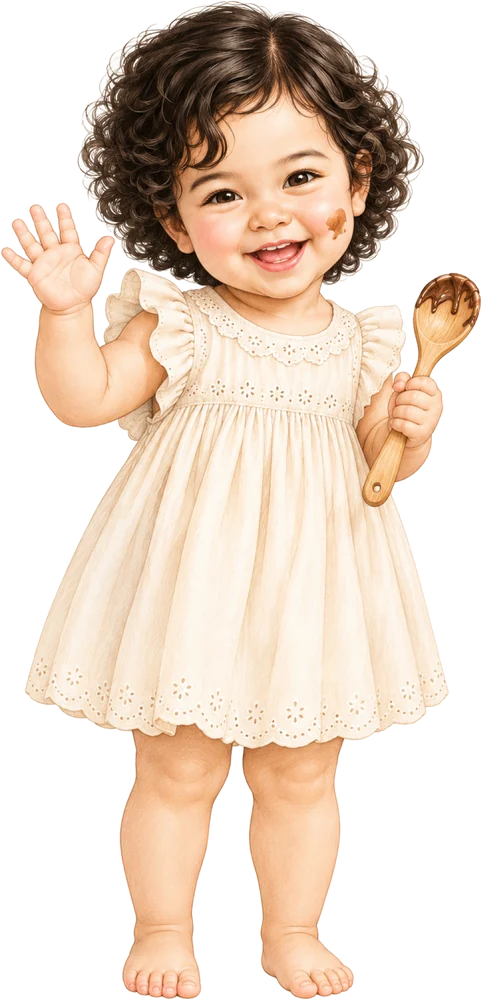
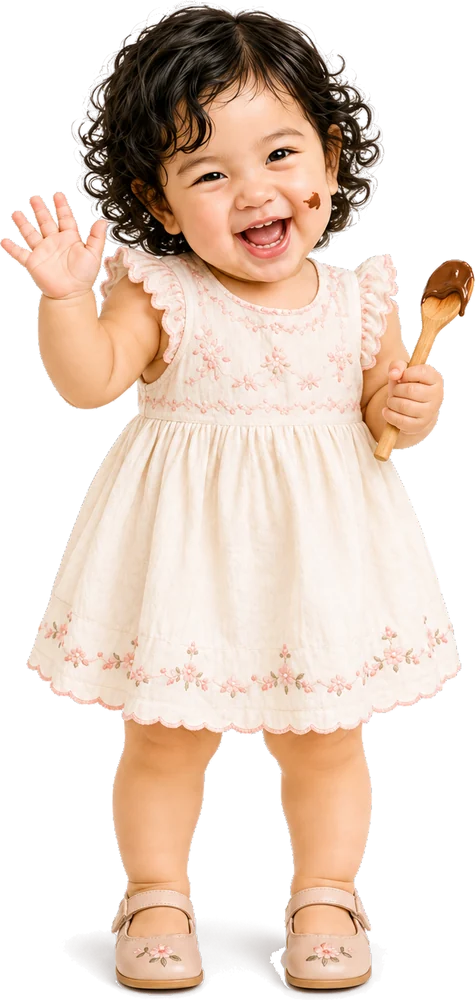
Use batch 3: photographic LG across both brands
- Six existing LG poses swapped for the batch 3 photos, cut out of their
  white backgrounds (GrabCut seeded from the white studio floor, with a
  soft contact shadow kept) and saved as WebP at 1000 px tall
- New round photo portraits for the brand-switch pill, the hero badge and
  the Tsismis teaser (blanket wink for LIMT, shh for Tsismis)
- Tsismis home: new 'see no / hear no / speak no tsismis' row above the
  gossip tags, copy in brandContent
- Blanket-wink full pose registered as 'cozy' for a future placement

Claude-Session: https://claude.ai/code/session_0141c2TkLaXLY1cYFBHnAE5R

diff --git a/src/brand/lgPoses.js b/src/brand/lgPoses.js
@@ -6,33 +6,42 @@
   pose. A moment a brand doesn't list falls back to that brand's circular
   portrait, unless the caller asks for no fallback.
 
-  Images are cut out from the originals in design/images/ (see README).
+  LG is photographic (from 25 Nov 2026). Images are cut out of the white
+  backgrounds of the originals in design/images/ (batch 3) and saved as WebP.
 */
-import lgLimt from '../assets/lg-limt.png'
-import lgTsismis from '../assets/lg-tsismis.png'
+import lgLimtPortrait from '../assets/lg/limt/lg-limt-portrait.webp'
+import lgTsismisPortrait from '../assets/lg/tsismis/lg-tsismis-portrait.webp'
 import limtWave from '../assets/lg/limt/lg-limt-wave.webp'
 import limtBrownieOffer from '../assets/lg/limt/lg-limt-brownie-offer.webp'
 import limtFlourLaugh from '../assets/lg/limt/lg-limt-flour-laugh.webp'
+import limtBlanketWink from '../assets/lg/limt/lg-limt-blanket-wink.webp'
 import tsismisWhisper from '../assets/lg/tsismis/lg-tsismis-whisper.webp'
 import tsismisDoorPeek from '../assets/lg/tsismis/lg-tsismis-door-peek.webp'
 import tsismisWhoMe from '../assets/lg/tsismis/lg-tsismis-who-me.webp'
+import tsismisSeeNo from '../assets/lg/tsismis/lg-tsismis-see-no.webp'
+import tsismisHearNo from '../assets/lg/tsismis/lg-tsismis-hear-no.webp'
+import tsismisSpeakNo from '../assets/lg/tsismis/lg-tsismis-speak-no.webp'
 
-const limtBrownie = { src: limtBrownieOffer, alt: 'LG holding out a fudgy brownie', w: 442, h: 1000 }
-const tsismisWhisperPose = { src: tsismisWhisper, alt: 'LG whispering a secret behind her hand', w: 499, h: 1000 }
+const limtBrownie = { src: limtBrownieOffer, alt: 'LG holding out a fudgy brownie and winking', w: 426, h: 1000 }
+const tsismisWhisperPose = { src: tsismisWhisper, alt: 'LG whispering a secret behind her hand', w: 448, h: 1000 }
 
 export const LG_POSES = {
   limt: {
-    story: { src: limtWave, alt: 'LG waving hello, holding a wooden spoon', w: 482, h: 1000 },
+    story: { src: limtWave, alt: 'LG waving hello, holding a chocolatey wooden spoon', w: 476, h: 1000 },
     featured: limtBrownie,
     order: limtBrownie,
-    empty: { src: limtFlourLaugh, alt: 'LG laughing, covered in flour', w: 937, h: 1000 },
-    fallback: { src: lgLimt, alt: 'LG, the Love in My Tummy mascot, winking and hugging a striped blanket' },
+    empty: { src: limtFlourLaugh, alt: 'LG sitting in a pile of flour, laughing', w: 1260, h: 1000 },
+    cozy: { src: limtBlanketWink, alt: 'LG winking under a striped blanket', w: 546, h: 1000 },
+    fallback: { src: lgLimtPortrait, alt: 'LG, the Love in My Tummy mascot, winking under a striped blanket', w: 320, h: 320 },
   },
   tsismis: {
     hero: tsismisWhisperPose,
-    story: { src: tsismisDoorPeek, alt: 'LG peeking around a doorway with a finger to her lips', w: 567, h: 1000 },
+    story: { src: tsismisDoorPeek, alt: 'LG peeking around a door with a finger to her lips', w: 702, h: 1000 },
     order: tsismisWhisperPose,
-    empty: { src: tsismisWhoMe, alt: 'LG looking innocent, as if to say "who, me?"', w: 412, h: 1000 },
-    fallback: { src: lgTsismis, alt: 'LG, the Tsismis mascot, smiling with a finger to her lips' },
+    empty: { src: tsismisWhoMe, alt: 'LG looking innocent, as if to say "who, me?"', w: 422, h: 1000 },
+    seeNo: { src: tsismisSeeNo, alt: 'LG covering her eyes', w: 638, h: 1000 },
+    hearNo: { src: tsismisHearNo, alt: 'LG covering her ears, laughing', w: 638, h: 1000 },
+    speakNo: { src: tsismisSpeakNo, alt: 'LG covering her mouth, bursting to tell', w: 637, h: 1000 },
+    fallback: { src: lgTsismisPortrait, alt: 'LG, the Tsismis mascot, with a finger to her lips', w: 320, h: 320 },
   },
 }

diff --git a/src/pages/HomePage.jsx b/src/pages/HomePage.jsx
@@ -91,6 +91,7 @@ export default function HomePage() {
         </div>
       </section>
 
+      {isTsismis && <NoTsismis copy={c.noTsismis} />}
       {isTsismis ? <GossipTags tags={c.tags} /> : <TsismisTeaser />}
 
       {/* ── Order ────────────────────────────────────────── */}
@@ -125,6 +126,29 @@ function TsismisTeaser() {
           <SpeechBubble size={24} />
           Switch to Tsismis
         </button>
+      </div>
+    </section>
+  )
+}
+
+/* Tsismis only: LG's see no / hear no / speak no tsismis trio. */
+const NO_TSISMIS_POSES = ['seeNo', 'hearNo', 'speakNo']
+
+function NoTsismis({ copy }) {
+  if (!copy) return null
+  return (
+    <section className="no-tsismis" aria-labelledby="no-tsismis-title">
+      <div className="wrap">
+        <h2 id="no-tsismis-title" className="heading no-tsismis__title">{copy.title}</h2>
+        <ul className="no-tsismis__row">
+          {NO_TSISMIS_POSES.map((pose, i) => (
+            <li key={pose} className="no-tsismis__item">
+              <LG pose={pose} fallback={false} decorative className="no-tsismis__lg" />
+              <p className="no-tsismis__line">{copy.lines[i]}</p>
+            </li>
+          ))}
+        </ul>
+        <p className="whisper no-tsismis__punchline">{copy.punchline}</p>
       </div>
     </section>
   )

diff --git a/src/pages/HomePage.css b/src/pages/HomePage.css
@@ -180,6 +180,29 @@
 .teaser__button:hover { background: #244B8C; }
 
 /* ── Gossip tags (Tsismis only) ────────────────────────── */
+/* ── See no / hear no / speak no tsismis (Tsismis only) ── */
+.no-tsismis { padding: clamp(48px, 7vw, 96px) 0 0; text-align: center; }
+.no-tsismis__title { margin: 0 0 clamp(24px, 4vw, 40px); }
+.no-tsismis__row {
+  list-style: none;
+  display: grid;
+  grid-template-columns: repeat(3, 1fr);
+  gap: clamp(12px, 3vw, 40px);
+  max-width: 900px;
+  margin: 0 auto;
+  padding: 0;
+}
+.no-tsismis__item { display: flex; flex-direction: column; align-items: center; }
+.no-tsismis__lg { height: clamp(150px, 22vw, 260px); width: auto; max-width: 100%; }
+.no-tsismis__line {
+  font-family: 'Caveat', cursive;
+  font-size: clamp(22px, 2.6vw, 30px);
+  font-weight: 600;
+  color: #C8323B;
+  margin: 12px 0 0;
+}
+.no-tsismis__punchline { margin: clamp(16px, 3vw, 28px) 0 0; justify-content: center; }
+
 .tags { padding: clamp(48px, 7vw, 96px) 0; overflow: hidden; }
 .tags__row {
   list-style: none;
@@ -248,6 +271,8 @@
 }
 
 @media (max-width: 520px) {
+  .no-tsismis__row { gap: 8px; }
+  .no-tsismis__line { font-size: 19px; }
   .tags__row { grid-template-columns: 1fr; max-width: 300px; }
   .tag:nth-child(even) { transform: rotate(2deg); }
 }

diff --git a/src/brand/brandContent.js b/src/brand/brandContent.js
@@ -10,8 +10,8 @@ import limtWordmarkNav from '../assets/brand/limt-wordmark-nav.png'
 import limtWordmarkFull from '../assets/brand/limt-wordmark-full.png'
 import tsismisWordmarkNav from '../assets/brand/tsismis-wordmark-nav.png'
 import tsismisWordmarkFull from '../assets/brand/tsismis-wordmark-full.png'
-import lgLimt from '../assets/lg-limt.png'
-import lgTsismis from '../assets/lg-tsismis.png'
+import lgLimt from '../assets/lg/limt/lg-limt-portrait.webp'
+import lgTsismis from '../assets/lg/tsismis/lg-tsismis-portrait.webp'
 import limtHeroBrownies from '../assets/hero/limt-hero-brownies.webp'
 
 export const BRAND_CONTENT = {
@@ -176,6 +176,13 @@ export const BRAND_CONTENT = {
       ],
       signature: 'LG, allegedly',
       link: 'Get the full story',
+    },
+
+    // The see no / hear no / speak no row above the gossip tags (Tsismis only)
+    noTsismis: {
+      title: 'We have a strict no-tsismis policy.',
+      lines: ['See no tsismis.', 'Hear no tsismis.', 'Speak no tsismis.'],
+      punchline: 'We lasted about four seconds.',
     },
 
     tags: [
